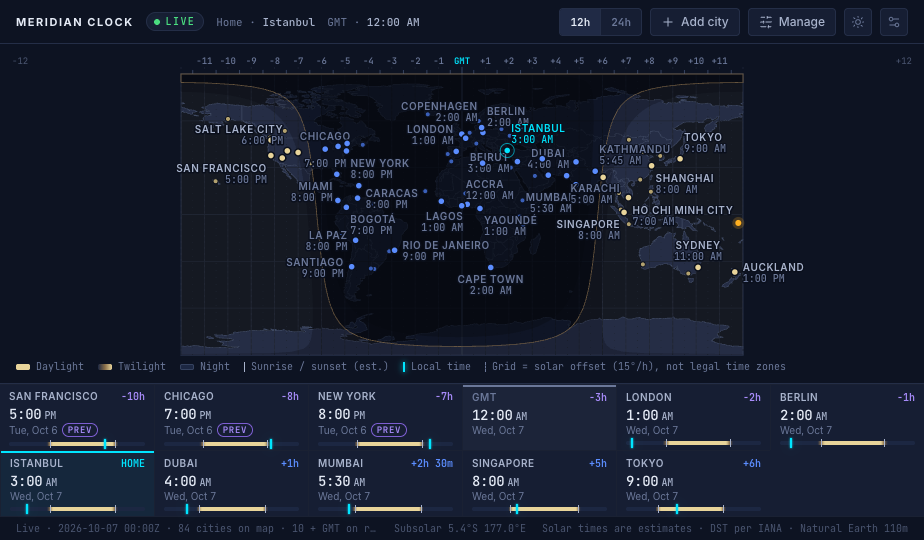
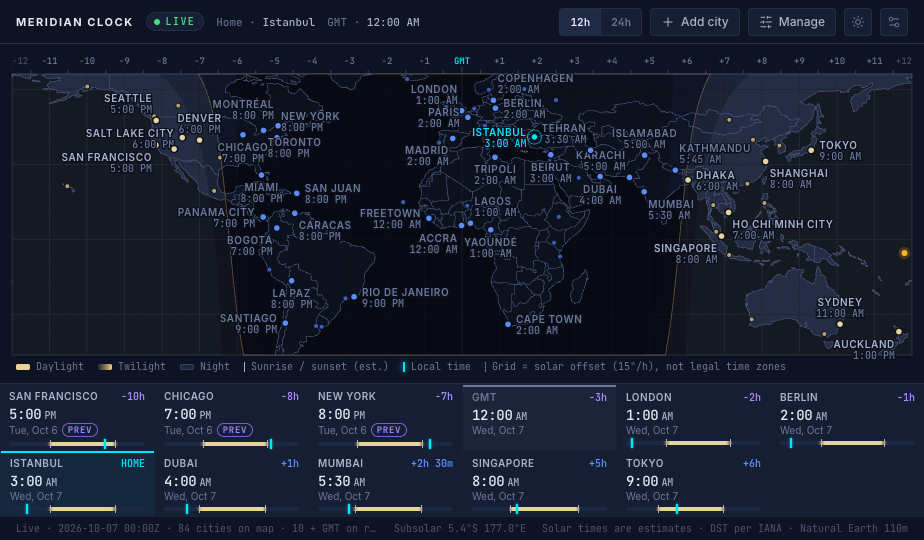
Fill the full window width; keep country borders visible at night
- Wide windows: the map fills edge to edge and crops the polar caps instead of leaving empty side bands.
- Dark theme: country borders and coastlines are redrawn above the night shading so they stay readable.

diff --git a/src/lib/theme.ts b/src/lib/theme.ts
@@ -3,8 +3,8 @@ import type { Theme } from './prefs';
 
 // Map palette objects from the design prototype (THEMES.dark / THEMES.light), unchanged.
 export const THEMES = {
-  dark: { NIGHT: '#1c2742', TWI: '#8a6f4a', GOLD: '#e8d49a', ocean: '#0a0f1c', sphereLine: '#242e47', land: '#1b2440', landLine: '#35425f', grat: '#141c2c', gridHalf: '#121a2a', grid: '#1a2133', gridZero: '#35425f', tick: '#35425f', lbl: '#6b7899', lblZero: '#00e5ff', lblEdge: '#4a5570', dayWash: 'rgba(232,212,154,0.05)', night1: 'rgba(5,7,13,0.25)', night2: 'rgba(5,7,13,0.35)', night3: 'rgba(5,7,13,0.3)', term: '#8a6f4a', sun: '#ffb020', sunRing: '#ffb02033', dotStroke: '#0a0f1c', home: '#00e5ff', day: '#e8d49a', dayMinor: '#b3a26f', night: '#5b8dff', nightMinor: '#3a5fb8', diffHome: '#00e5ff', diffNeg: '#a78bfa', diffPos: '#5b8dff', rise: '#ffb020', set: '#a78bfa' },
-  light: { NIGHT: '#c9d2e3', TWI: '#e2cfa0', GOLD: '#f2d98a', ocean: '#dfe6f1', sphereLine: '#b7c0d2', land: '#f4f6fa', landLine: '#9aa6bd', grat: '#cfd7e4', gridHalf: '#d6dde9', grid: '#c5cedd', gridZero: '#8b95ad', tick: '#8b95ad', lbl: '#5f6b85', lblZero: '#0084b3', lblEdge: '#8b95ad', dayWash: 'rgba(255,214,102,0.10)', night1: 'rgba(40,55,90,0.14)', night2: 'rgba(40,55,90,0.18)', night3: 'rgba(40,55,90,0.16)', term: '#b8894a', sun: '#e08a00', sunRing: '#e08a0033', dotStroke: '#f7f8fb', home: '#0084b3', day: '#d9a400', dayMinor: '#c4a24a', night: '#2f5fd6', nightMinor: '#7f98dc', diffHome: '#0084b3', diffNeg: '#6d4fd1', diffPos: '#2f5fd6', rise: '#b86e00', set: '#6d4fd1' },
+  dark: { NIGHT: '#1c2742', TWI: '#8a6f4a', GOLD: '#e8d49a', ocean: '#0a0f1c', sphereLine: '#242e47', land: '#1b2440', landLine: '#35425f', border: '#4d5c80', grat: '#141c2c', gridHalf: '#121a2a', grid: '#1a2133', gridZero: '#35425f', tick: '#35425f', lbl: '#6b7899', lblZero: '#00e5ff', lblEdge: '#4a5570', dayWash: 'rgba(232,212,154,0.05)', night1: 'rgba(5,7,13,0.25)', night2: 'rgba(5,7,13,0.35)', night3: 'rgba(5,7,13,0.3)', term: '#8a6f4a', sun: '#ffb020', sunRing: '#ffb02033', dotStroke: '#0a0f1c', home: '#00e5ff', day: '#e8d49a', dayMinor: '#b3a26f', night: '#5b8dff', nightMinor: '#3a5fb8', diffHome: '#00e5ff', diffNeg: '#a78bfa', diffPos: '#5b8dff', rise: '#ffb020', set: '#a78bfa' },
+  light: { NIGHT: '#c9d2e3', TWI: '#e2cfa0', GOLD: '#f2d98a', ocean: '#dfe6f1', sphereLine: '#b7c0d2', land: '#f4f6fa', landLine: '#9aa6bd', border: '#9aa6bd', grat: '#cfd7e4', gridHalf: '#d6dde9', grid: '#c5cedd', gridZero: '#8b95ad', tick: '#8b95ad', lbl: '#5f6b85', lblZero: '#0084b3', lblEdge: '#8b95ad', dayWash: 'rgba(255,214,102,0.10)', night1: 'rgba(40,55,90,0.14)', night2: 'rgba(40,55,90,0.18)', night3: 'rgba(40,55,90,0.16)', term: '#b8894a', sun: '#e08a00', sunRing: '#e08a0033', dotStroke: '#f7f8fb', home: '#0084b3', day: '#d9a400', dayMinor: '#c4a24a', night: '#2f5fd6', nightMinor: '#7f98dc', diffHome: '#0084b3', diffNeg: '#6d4fd1', diffPos: '#2f5fd6', rise: '#b86e00', set: '#6d4fd1' },
 } as const;
 export type Palette = { [K in keyof (typeof THEMES)['dark']]: string };
 export const palette = (t: Theme): Palette => THEMES[t];

diff --git a/src/components/WorldMap.tsx b/src/components/WorldMap.tsx
@@ -18,7 +18,9 @@ interface Props {
 
 const Base = memo(function Base({ projection, T, W }: { projection: GeoProjection; T: Palette; W: number }) {
   const path = pathFor(projection);
-  const top = projection([0, 90])![1], bot = projection([0, -90])![1];
+  // The poles sit outside the clip extent when a wide window crops them; the grid then spans the visible map.
+  const clip = projection.clipExtent();
+  const top = Math.max(projection([0, 90])![1], clip?.[0][1] ?? -Infinity), bot = Math.min(projection([0, -90])![1], clip?.[1][1] ?? Infinity);
   const lines = [];
   for (let lon = -180; lon <= 180; lon += 7.5) {
     const x = projection([lon, 0])![0], off = lon / 15, zero = off === 0, half = off % 1 !== 0;
@@ -70,6 +72,8 @@ export function WorldMap({ model, hour12, T, hoverId, editorId, onHover, onOpen,
     const [sx, sy] = projection(s.sun)!;
     return { day: path(s.day), n1: path(s.twilightOuter), n2: path(s.night), n3: path(s.twilightInner), sx, sy, sun: s.sun };
   }, [projection, model.utc]);
+  // Country borders and coastlines again above the night shading, which would otherwise dim them to near-invisible.
+  const borders = useMemo(() => (projection ? pathFor(projection)(LAND) : null), [projection]);
 
   const pts = useMemo(() => {
     const m = new Map<string, [number, number]>();
@@ -102,6 +106,7 @@ export function WorldMap({ model, hour12, T, hoverId, editorId, onHover, onOpen,
             <path d={night.n1 ?? ''} fill={T.night1} />
             <path d={night.n2 ?? ''} fill={T.night2} stroke={T.term} strokeWidth={0.8} strokeOpacity={0.7} />
             <path d={night.n3 ?? ''} fill={T.night3} />
+            <path d={borders ?? ''} fill="none" stroke={T.border} strokeWidth={0.6} />
             <circle className="sun" cx={night.sx} cy={night.sy} r={3} fill={T.sun} stroke={T.sunRing} strokeWidth={6} />
           </g>
           <g>

diff --git a/src/lib/mapgeo.ts b/src/lib/mapgeo.ts
@@ -10,8 +10,19 @@ export const LAND = feature(world, world.objects.countries);
 export const GRATICULE = geoGraticule().step([15, 30])();
 export const SPHERE = { type: 'Sphere' } as const;
 
+/** Latitude kept at the vertical centre when a wide window crops the poles (most cities lie north of the equator). */
+const CROP_CENTRE = 10;
+
+/**
+ * Fits the whole globe when the map area is 2:1 or taller. A wider area is filled edge to edge instead: the
+ * scale follows the width and the polar caps (Arctic ice, Antarctica — no cities) are cropped top and bottom.
+ */
 export function makeProjection(W: number, H: number): GeoProjection {
-  return geoEquirectangular().fitExtent([[12, 30], [Math.max(W - 12, 40), Math.max(H - 28, 60)]], SPHERE);
+  const x0 = 12, y0 = 30, x1 = Math.max(W - 12, 40), y1 = Math.max(H - 28, 60);
+  if (x1 - x0 <= 2 * (y1 - y0)) return geoEquirectangular().fitExtent([[x0, y0], [x1, y1]], SPHERE);
+  const k = (x1 - x0) / (2 * Math.PI), half = ((y1 - y0) / 2 / k) * (180 / Math.PI); // visible half-height, degrees
+  const centre = Math.min(Math.max(CROP_CENTRE, half - 90), 90 - half);
+  return geoEquirectangular().scale(k).translate([(x0 + x1) / 2, (y0 + y1) / 2 + (centre * Math.PI / 180) * k]).clipExtent([[x0, y0], [x1, y1]]);
 }
 export const pathFor = (projection: GeoProjection) => geoPath(projection);
 

diff --git a/tests/e2e/extension.spec.ts b/tests/e2e/extension.spec.ts
@@ -516,8 +516,8 @@ for (const [w, h] of [[1280, 720], [1440, 900]] as const) {
     expect(m.topOverflow).toBe(false);
     expect(m.map).toBeGreaterThan(h * 0.6);
     expect(m.overlapping).toEqual([]);
-    // 10 ruler + 33 always-labelled; at 1280px the crowded western USA has no room for Seattle and Las Vegas, which stay dots
-    expect(await page.locator('svg.world .city text.name').count()).toBe(w === 1280 ? 41 : 43);
+    // 10 ruler + 33 always-labelled, all with room at both widths (an extra label that cannot fit would stay a plain dot)
+    expect(await page.locator('svg.world .city text.name').count()).toBe(43);
     await page.screenshot({ path: path.join(SHOTS, `dark-live-${w}.png`) });
     await page.locator('[data-theme-toggle]').click();
     await expect(page.locator('body')).toHaveClass(/light/);
